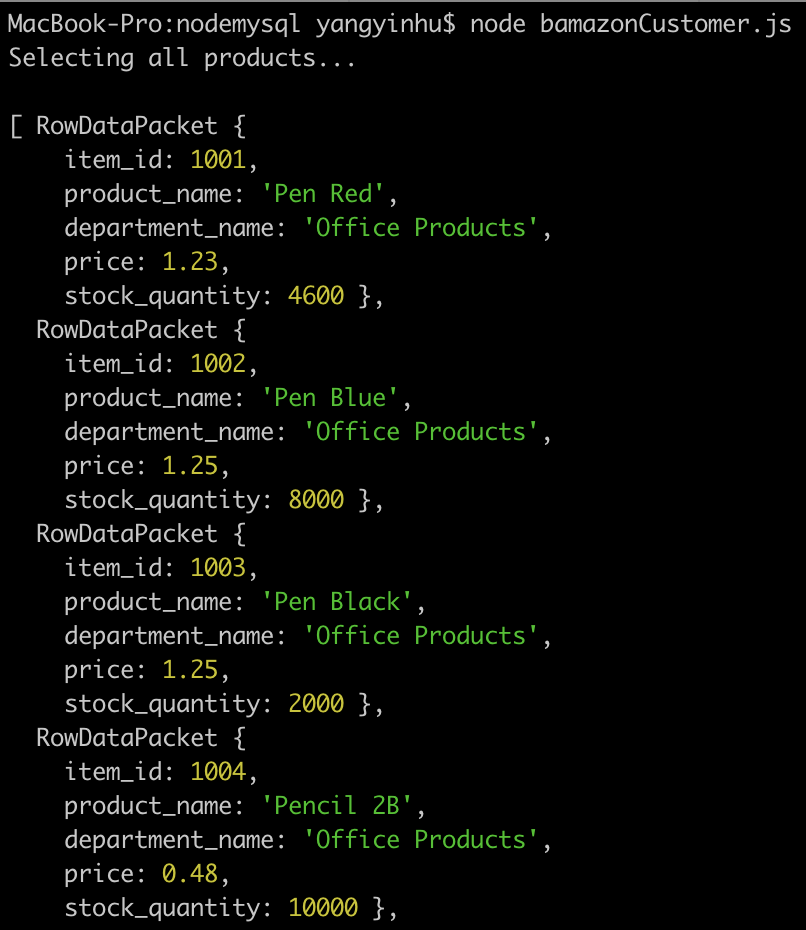
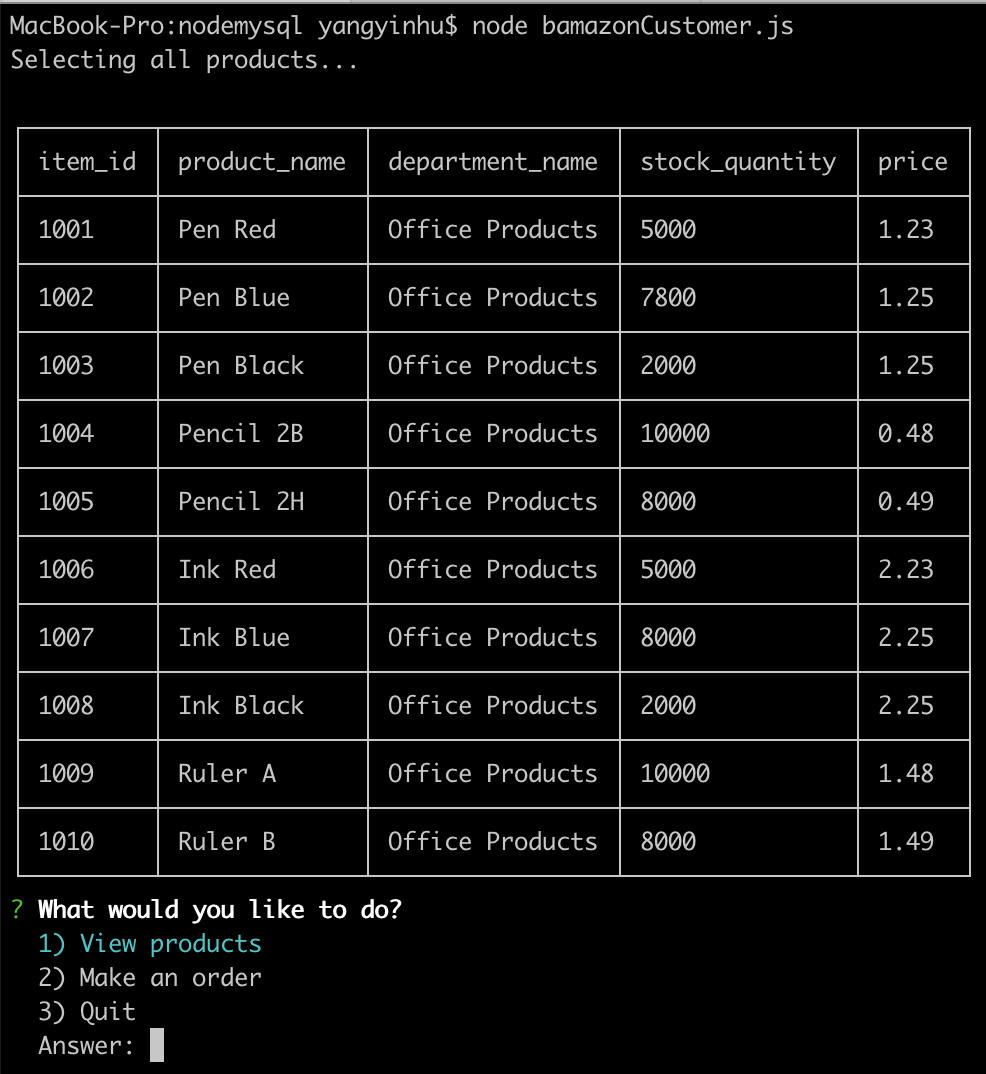
updated README with new screenshots

Changed region(s): [[0.0, 0.1247, 0.9926, 0.9978], [0.0, 0.0, 1.0, 0.0935]]

diff --git a/README.md b/README.md
@@ -1,11 +1,14 @@
 # Node.js & MySQL
 
 ### Overview
-This Node.js & MySQL module will first show the users all products that are currently available, then it will ask the users which product they would like to order, and will update the MySQL database accordingly.
-  * Show all products.
+This Node.js & MySQL module will first show the home page with all products that are currently available in a table view, then it will ask the users what the next step will be. If they choose to order producs, it will prompt with which product they would like to order, and will update the MySQL database accordingly. If they choose to view products, the table of all products will display again. They will quit the module if the choice is "Quit".
+
+  * Home Page.
     ![alt text](https://github.com/huyy49/nodemysql/blob/master/images/select_all_products.png)
+  * View all products.
+    ![alt text](https://github.com/huyy49/nodemysql/blob/master/images/view_products.png)
   * Prompt question with choices for user to choose the product.
-    ![alt text](https://github.com/huyy49/nodemysql/blob/master/images/select_all_products.png)
+    ![alt text](https://github.com/huyy49/nodemysql/blob/master/images/list_order_id.png)
   * Prompt question for users to enter quantity to order.
     ![alt text](https://github.com/huyy49/nodemysql/blob/master/images/order_quantity.png)
   * First order.
@@ -14,6 +17,8 @@ This Node.js & MySQL module will first show the users all products that are curr
     ![alt text](https://github.com/huyy49/nodemysql/blob/master/images/order_second.png)
   * Insufficient quantity.
     ![alt text](https://github.com/huyy49/nodemysql/blob/master/images/insufficient_quantity.png)
+  * Quit.
+    ![alt text](https://github.com/huyy49/nodemysql/blob/master/images/quit.png)
 
 ### Required Node API/Packages
   * inquirer
